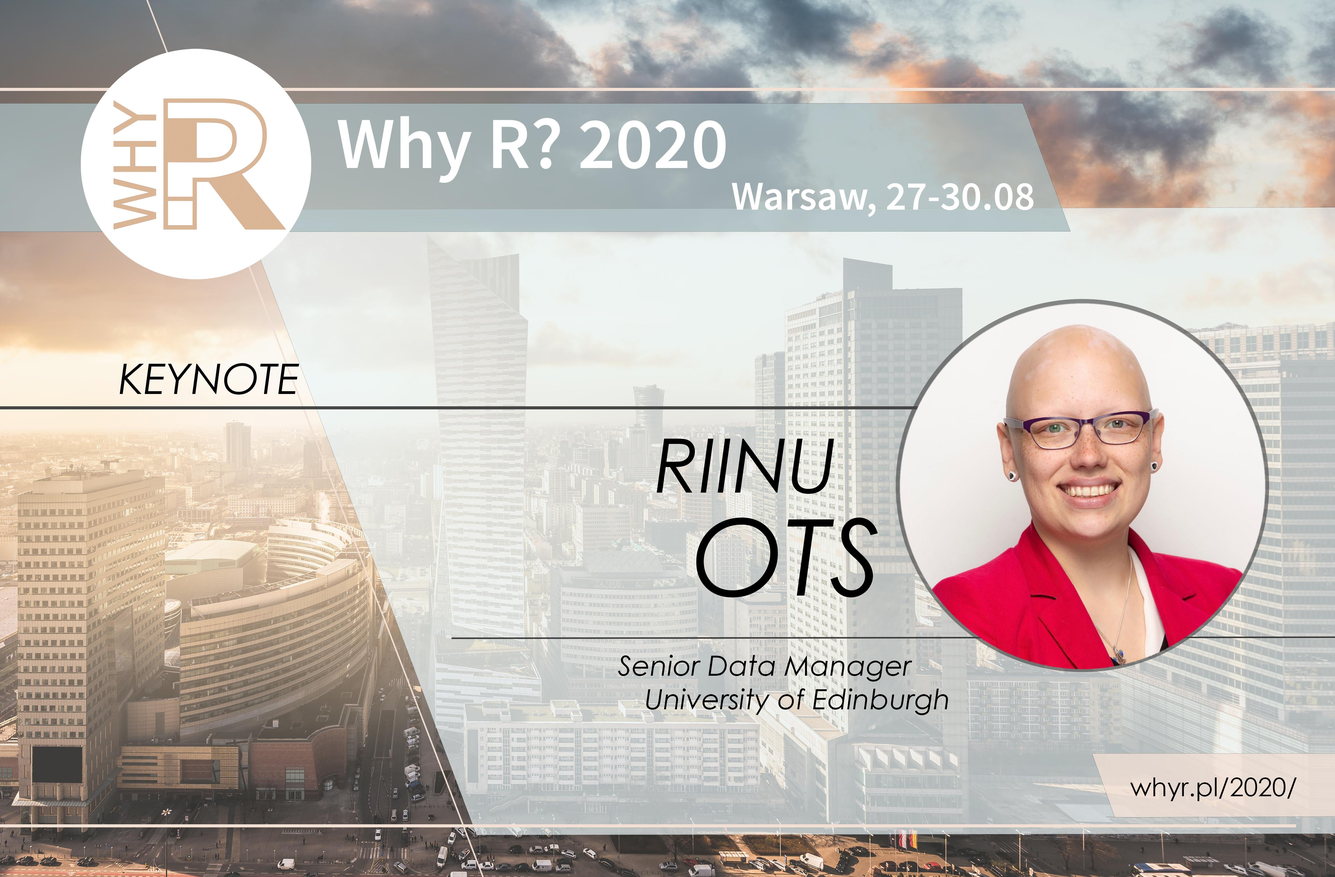
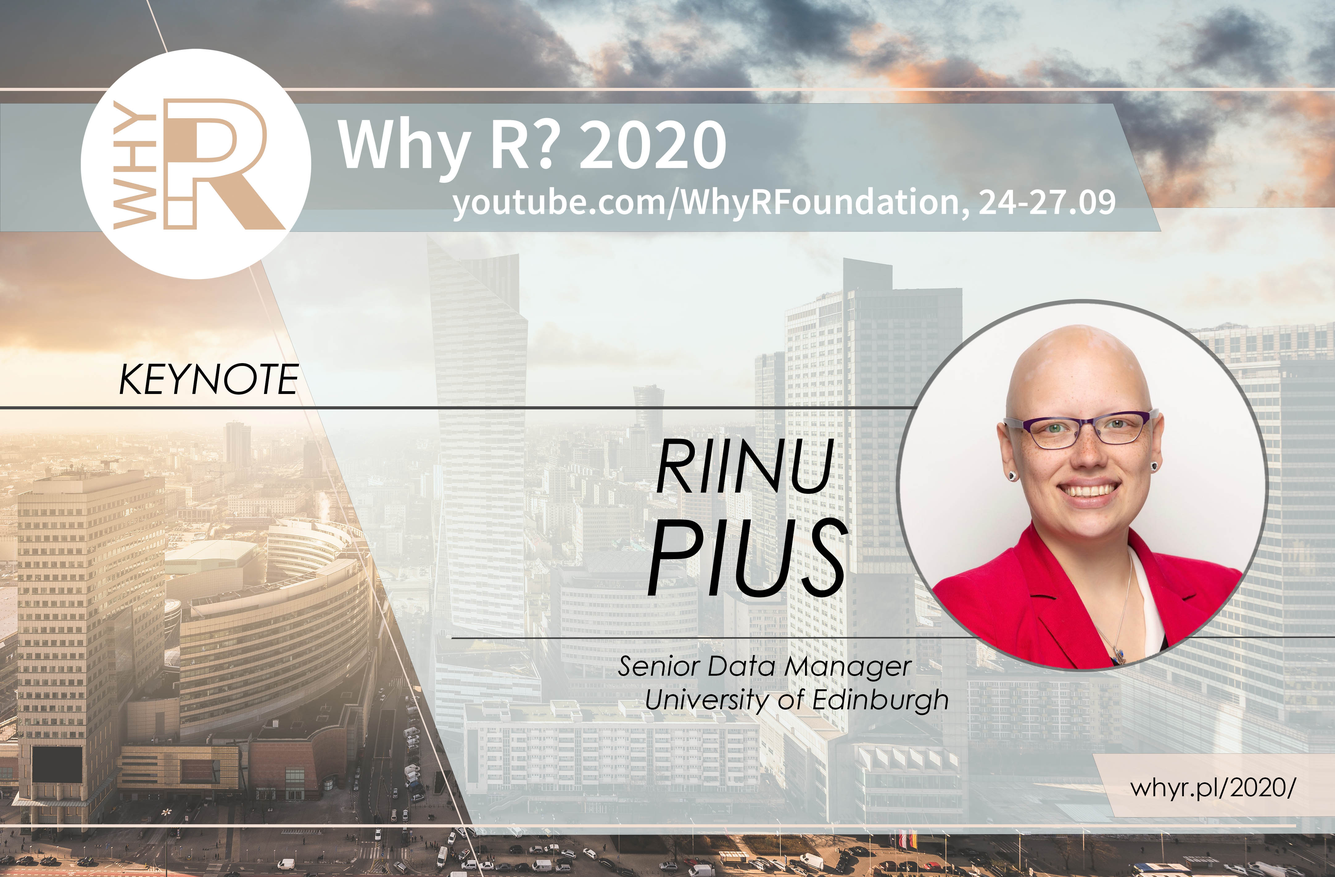
Agenda and Workshops Announced

Changed region(s): [[0.3431, 0.0928, 0.8734, 0.2784], [0.4679, 0.5877, 0.655, 0.6805]]

diff --git a/_posts/2020-09-09-WhyR-Agenda-Workshops-Announced.md b/_posts/2020-09-09-WhyR-Agenda-Workshops-Announced.md
@@ -1,0 +1,61 @@
+---
+layout: post
+title: Why R? 2020 (Remote) Agenda and Workshops Announced
+comments: true
+published: true
+date: 2020-09-09 08:00:00
+author: Marcin Kosiński
+categories: [conference]
+tags: [2020]
+output:
+  html_document:
+    mathjax:  default
+    fig_caption:  true
+    toc: true
+    section_numbering: true
+    keep_md: true
+---
+
+<img src="/images/fulls/whyr2020/updated_cover2020_small.jpg" class="fit image"> The fourth edition of Why R? Conference ([2020.whyr.pl](https://2020.whyr.pl/) is starting in 2 weeks! It was planned for September 24-27 2020 and happens remotely. Some pre-events, like **Text Mining Hackathon** start on 23rd (and lasts till the end of 24th). Have a look at this blog post to find out a big-picture agenda, proposed workshops and details around lectures. There are still seats on some workshops if you're willing to participate. Simply visit the registration page [2020.whyr.pl/register/](https://2020.whyr.pl/register/).
+
+# Agenda of the conference
+
+<img src="/images/fulls/whyr2020/agenda.jpg" class="fit image"> 
+We start the event with a Text Mining Hackathon (more to come here - [whyr.pl/2020/hackathon](http://whyr.pl/foundation/2020/hackathon/)). Julia Silge, our keynote, who works as  a data scientist and software engineer at RStudio PBC will give a kickoff talk on the evening of 23rd September. The day of 24th is reserved for the Hackathon that ends with a Sponsored Talk by McKinsey & Company, golden sponsor of the conference.
+
+## Workshops
+
+<img src="/images/fulls/whyr2020/agenda_workshops.jpg" class="fit image"> 
+
+On 25th we scheduled 2 sessions of workshops. You can check descriptions and requirements on this GitHub repository [2020.whyr.pl/workshops/](https://github.com/WhyR2020/workshops). The registration is available through [2020.whyr.pl/register/](https://2020.whyr.pl/register/).
+
+## Lectures
+
+<img src="/images/fulls/whyr2020/agenda_lectures.jpg" class="fit image"> 
+
+The 26th and 27th are reserved for lectures. The detailed plan can be seen here [2020.whyr.pl/plan/](https://2020.whyr.pl/plan/) where abstracts of talks are available under [2020.whyr.pl/abstracts/](https://github.com/WhyR2020/abstracts).
+
+## Keynotes
+
+<img src="/images/fulls/whyr2020/keynotes/all_keynotes.JPG" class="fit image"> 
+
+Thanks to the remote setup we are more than excited to host global big names as keynotes this year! Frank Harrel, Riinu Pius, Małgorzata Bogdan, Jan Vitek, Julia Silge and Roger Bivad will give hour long keynotes talks followe by 45 minutes long discussion panels.
+
+# All needed links combined
+
+- website   [2020.whyr.pl](https://2020.whyr.pl/)
+- register  [2020.whyr.pl/register/](https://2020.whyr.pl/register/)
+- plan      [2020.whyr.pl/plan/](https://2020.whyr.pl/plan/)
+- workshops [2020.whyr.pl/workshops/](https://2020.whyr.pl/workshops/)
+- hackathon [2020.whyr.pl/hackathon/](https://2020.whyr.pl/hackathon/)
+- abstracts [2020.whyr.pl/abstracts/](https://2020.whyr.pl/abstracts/)
+
+# Our Social Media
+
+Find out our Social Media channels: 
+- [Website](http://whyr.pl/2020/), 
+- [Facebook fanpage](https://www.facebook.com/whyRconf/) and [the event](https://www.facebook.com/events/338207787063345/), 
+- [Twitter](https://twitter.com/whyRconf), 
+- [LinkedIn](https://www.linkedin.com/company/why-r/) 
+- and [Our Slack](https://join.slack.com/t/whyr/shared_invite/enQtNzcwMjExODk0NzM3LTRkMjhkYzliYzc5MGJhMzRlMzc1YzM0ZWJmNjM4MGNmMmM0MzYzZWJjYjhkZWM4ODA3MGY4MTUwNmJhMGNjNmY)
+
